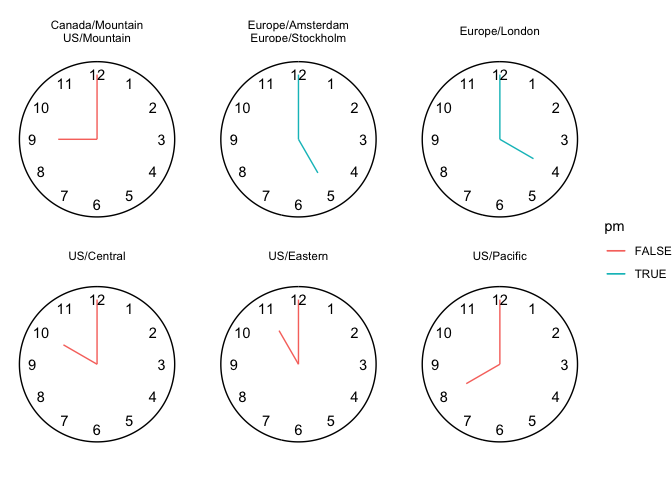
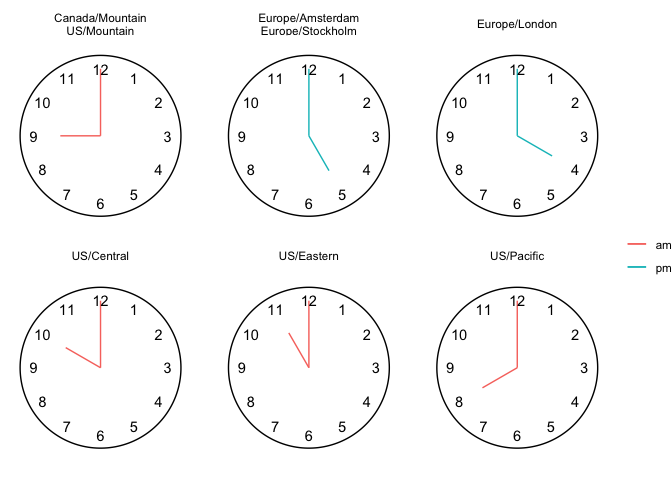
update date

diff --git a/README.md b/README.md
@@ -5,27 +5,19 @@
 
 ``` r
 library(tidyverse)
-#> ── Attaching packages ─────────────────────────────────────── tidyverse 1.3.0 ──
-#> ✓ ggplot2 3.3.5     ✓ purrr   0.3.4
-#> ✓ tibble  3.1.6     ✓ dplyr   1.0.8
-#> ✓ tidyr   1.0.2     ✓ stringr 1.4.0
-#> ✓ readr   1.3.1     ✓ forcats 0.5.0
-#> Warning: package 'ggplot2' was built under R version 3.6.2
-#> Warning: package 'tibble' was built under R version 3.6.2
-#> Warning: package 'purrr' was built under R version 3.6.2
-#> Warning: package 'dplyr' was built under R version 3.6.2
+#> ── Attaching core tidyverse packages ──────────────────────── tidyverse 2.0.0 ──
+#> ✔ dplyr     1.1.0     ✔ readr     2.1.4
+#> ✔ forcats   1.0.0     ✔ stringr   1.5.0
+#> ✔ ggplot2   3.4.1     ✔ tibble    3.1.8
+#> ✔ lubridate 1.9.2     ✔ tidyr     1.3.0
+#> ✔ purrr     1.0.1     
 #> ── Conflicts ────────────────────────────────────────── tidyverse_conflicts() ──
-#> x dplyr::filter() masks stats::filter()
-#> x dplyr::lag()    masks stats::lag()
+#> ✖ dplyr::filter() masks stats::filter()
+#> ✖ dplyr::lag()    masks stats::lag()
+#> ℹ Use the conflicted package (<http://conflicted.r-lib.org/>) to force all conflicts to become errors
 library(lubridate)
-#> Warning: package 'lubridate' was built under R version 3.6.2
-#> 
-#> Attaching package: 'lubridate'
-#> The following objects are masked from 'package:base':
-#> 
-#>     date, intersect, setdiff, union
 
-ymd_hms("2009-08-07 11:00:00", 
+ymd_hms("2023-04-08 11:00:00", 
         tz = "America/New_York") ->
   meeting
 
@@ -59,14 +51,15 @@ df
 df %>% 
   mutate(minute_turn = local_time %>% lubridate::minute() %% 60 / 60) %>% 
   mutate(hour_turn = local_time %>% lubridate::hour() %% 12/12 + minute_turn/12) %>% 
-  mutate(pm = local_time %>% lubridate::hour() > 12) %>% 
+  mutate(am_pm = ifelse(local_time %>% lubridate::hour() > 12, "pm", "am")) %>% 
   ggplot() + 
   facet_wrap(~locations) + 
   aes(x =  hour_turn, 
       xend =  hour_turn,
       y = 0,
       yend = .6,
-      color = pm) + 
+      color = am_pm) + 
+  labs(color = NULL) +
   geom_segment() + 
   geom_segment(aes(x =  minute_turn, 
                   xend =  minute_turn ,
